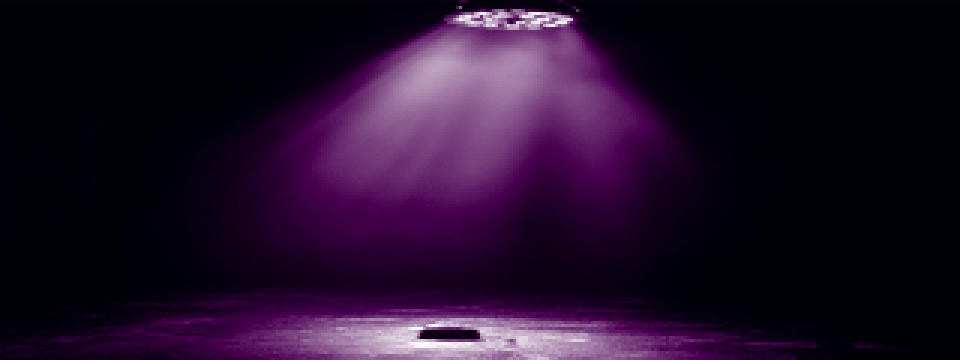
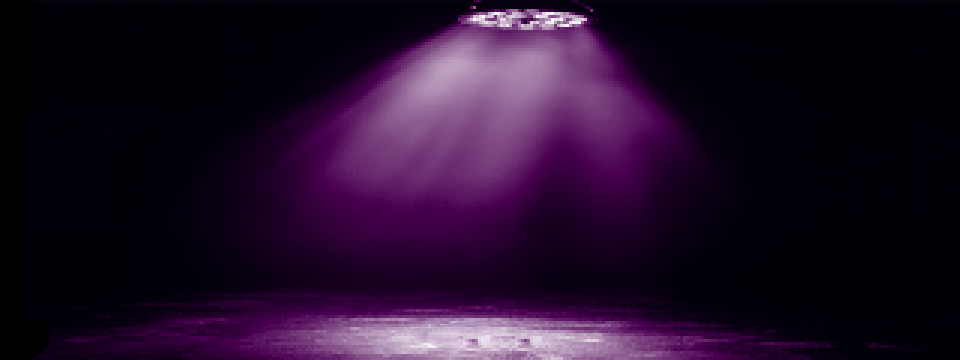
Final Scene Finished

diff --git a/src/scenes/finalLetterScene/finalLetterRoom.js b/src/scenes/finalLetterScene/finalLetterRoom.js
@@ -4,8 +4,12 @@ class FinalLetterRoom extends Phaser.Scene {
     }
 
     create() {
-         this.UiScene = this.scene.manager.getScene('uiScene')
-         this.UiScene.dot.y = 375
+        this.maidenClicks = 1;
+        this.maidenLocked = false;
+
+        this.UiScene = this.scene.manager.getScene('uiScene')
+        this.UiScene.dot.y = 375
+
         //PLAY BGM
         this.bgm = this.sound.add('IntroBGM', {
             loop: true,
@@ -14,9 +18,36 @@ class FinalLetterRoom extends Phaser.Scene {
         this.bgm.play();
 
         this.sceneBG = this.add.image(width / 2, playHeight / 2, 'letterRoomBG');
-        this.add.image(362,266,'tableFinal').setOrigin(0)
-        this.finalLetter = new DoorWay(this, 420, 250, 'envelopeFinal', "theFinalLetterScene")
+        this.robertGhost = new ClickableObject(this, 100, 190,'robertGhost', 'Remix our memories').setOrigin(0.5,0.5).setAlpha(0.25)
+        this.michaelGhost = new ClickableObject(this, 860, 190,'michaelGhost', 'Remix our memories').setOrigin(0.5,0.5).setAlpha(0.25)
+
+        this.ironMaiden = new ClickableObject(this, 495, 180,'ironMaiden', 'The Iron Maiden').setOrigin(0.5,0.5)
+        this.ironMaidenShut = new ClickableObject(this, 495, 1000,'ironMaidenShut', 'The Iron Maiden Shut').setOrigin(0.5,0.5)
+        this.ironMaidenopen = this.add.image(495,1000,'ironMaidenOpen').setOrigin(0.5,0.5)
+        this.finalLetter = new DoorWay(this, 490, 1000, 'envelopeFinal', "theFinalLetterScene").setOrigin(0.5,0.5)
         
+        this.ironMaiden.on('pointerdown', () => {
+            if (this.maidenLocked) return
+            // Move to the next frame each click
+            this.ironMaiden.setFrame(this.maidenClicks)
+
+            // If frame 3 is the final broken frame, stop there
+            if (this.maidenClicks >= 2) {
+                this.maidenLocked = true
+                this.sound.play('glassBreak')
+                this.ironMaidenShut.setY(180)
+                this.ironMaiden.setY(1000)
+            }
+
+            this.maidenClicks++
+        })
+
+        this.ironMaidenShut.on('pointerdown', () => {
+            this.ironMaidenopen.setY(180)
+            this.ironMaidenShut.setY(1000)
+            this.finalLetter.setY(330)
+        })
+
          //USE THIS TO KILL BGM AND OTHER AUDIO
              this.events.once('shutdown', () => {
             

diff --git a/src/scenes/utility/load.js b/src/scenes/utility/load.js
@@ -49,6 +49,10 @@ class Load extends Phaser.Scene
         this.load.image('envelopeFinal','./assets/images/FinalLetterRoom/envelopeFinal.png')
         this.load.image('letterRoomBG','./assets/images/FinalLetterRoom/FinalLetterRoomBackGround.png')
         this.load.image('finalLetterBG','./assets/images/FinalLetterRoom/finalLetterBG.png')
+        this.load.image('robertGhost','./assets/images/FinalLetterRoom/RobertGhost.png')
+        this.load.image('michaelGhost','./assets/images/FinalLetterRoom/MichaelGhost.png')
+        this.load.image('ironMaidenShut','./assets/images/FinalLetterRoom/IronMaidenShut.png')
+        this.load.image('ironMaidenOpen','./assets/images/FinalLetterRoom/IronMaidenOpen.png')
 
         //Play Room
         this.load.image('playBG','./assets/images/PlayRoom/PlayBG.png')
@@ -82,6 +86,7 @@ class Load extends Phaser.Scene
         this.load.image('elevatorClosed','./assets/images/ElevatorRoom/ElevatorClosed.png')
         this.load.image('elevatorOpen','./assets/images/ElevatorRoom/ElevatorOpen.png')
         this.load.image('robertStanding','./assets/images/ElevatorRoom/RobertStanding.png')
+
         // this.load.image('towerMirror','./assets/images/TowerEntrance/Mirror.png')
         this.load.spritesheet('towerMirror','./assets/images/TowerEntrance/MirrorSheet.png',{frameWidth: 204, frameHeight: 300})
 
@@ -97,6 +102,8 @@ class Load extends Phaser.Scene
         this.load.spritesheet('canvas2','./assets/images/ElevatorRoom/CanvasSheet2.png',{frameWidth: 147, frameHeight: 184})
         this.load.spritesheet('canvas3','./assets/images/ElevatorRoom/CanvasSheet3.png',{frameWidth: 147, frameHeight: 184})
         this.load.spritesheet('canvas4','./assets/images/ElevatorRoom/CanvasSheet4.png',{frameWidth: 147, frameHeight: 184})
+
+        this.load.spritesheet('ironMaiden','./assets/images/FinalLetterRoom/IronMaidenSheet.png',{frameWidth: 246, frameHeight: 339})
         //load fonts------------------
         this.load.font('uiFont','./assets/fonts/Faith.ttf')
         //load audio------------------

diff --git a/src/scenes/betweenScenes/MaleBoxCloseUp.js b/src/scenes/betweenScenes/MaleBoxCloseUp.js
@@ -18,8 +18,8 @@ class MaleBoxCloseUp extends Phaser.Scene
         this.add.rectangle(0,0,width,playHeight,0x000000).setOrigin(0,0)
         this.sceneBG = this.add.image(width/2,playHeight/2,'portal').setOrigin(0.5,0.5)
         this.letterHand = this.add.image(width/2,playHeight/2,'letterHand').setOrigin(0.5,0.5)
-        this.bottle = new FindableObject(this,225,180,'mailBox','towerUnlockedScene',3).play('bottleAnim').setOrigin(0.5,0.5)
-        
+        this.bottle = new FindableObject(this,225,180,'mailBox','towerUnlockedScene',3).play('bottleAnim').setOrigin(0.5,0.5) 
+        //this.bottle = new FindableObject(this,225,180,'mailBox','finalLetterRoomScene',3).play('bottleAnim').setOrigin(0.5,0.5)
         //background rotate slowly
         this.tweens.add({
             targets: this.sceneBG,
